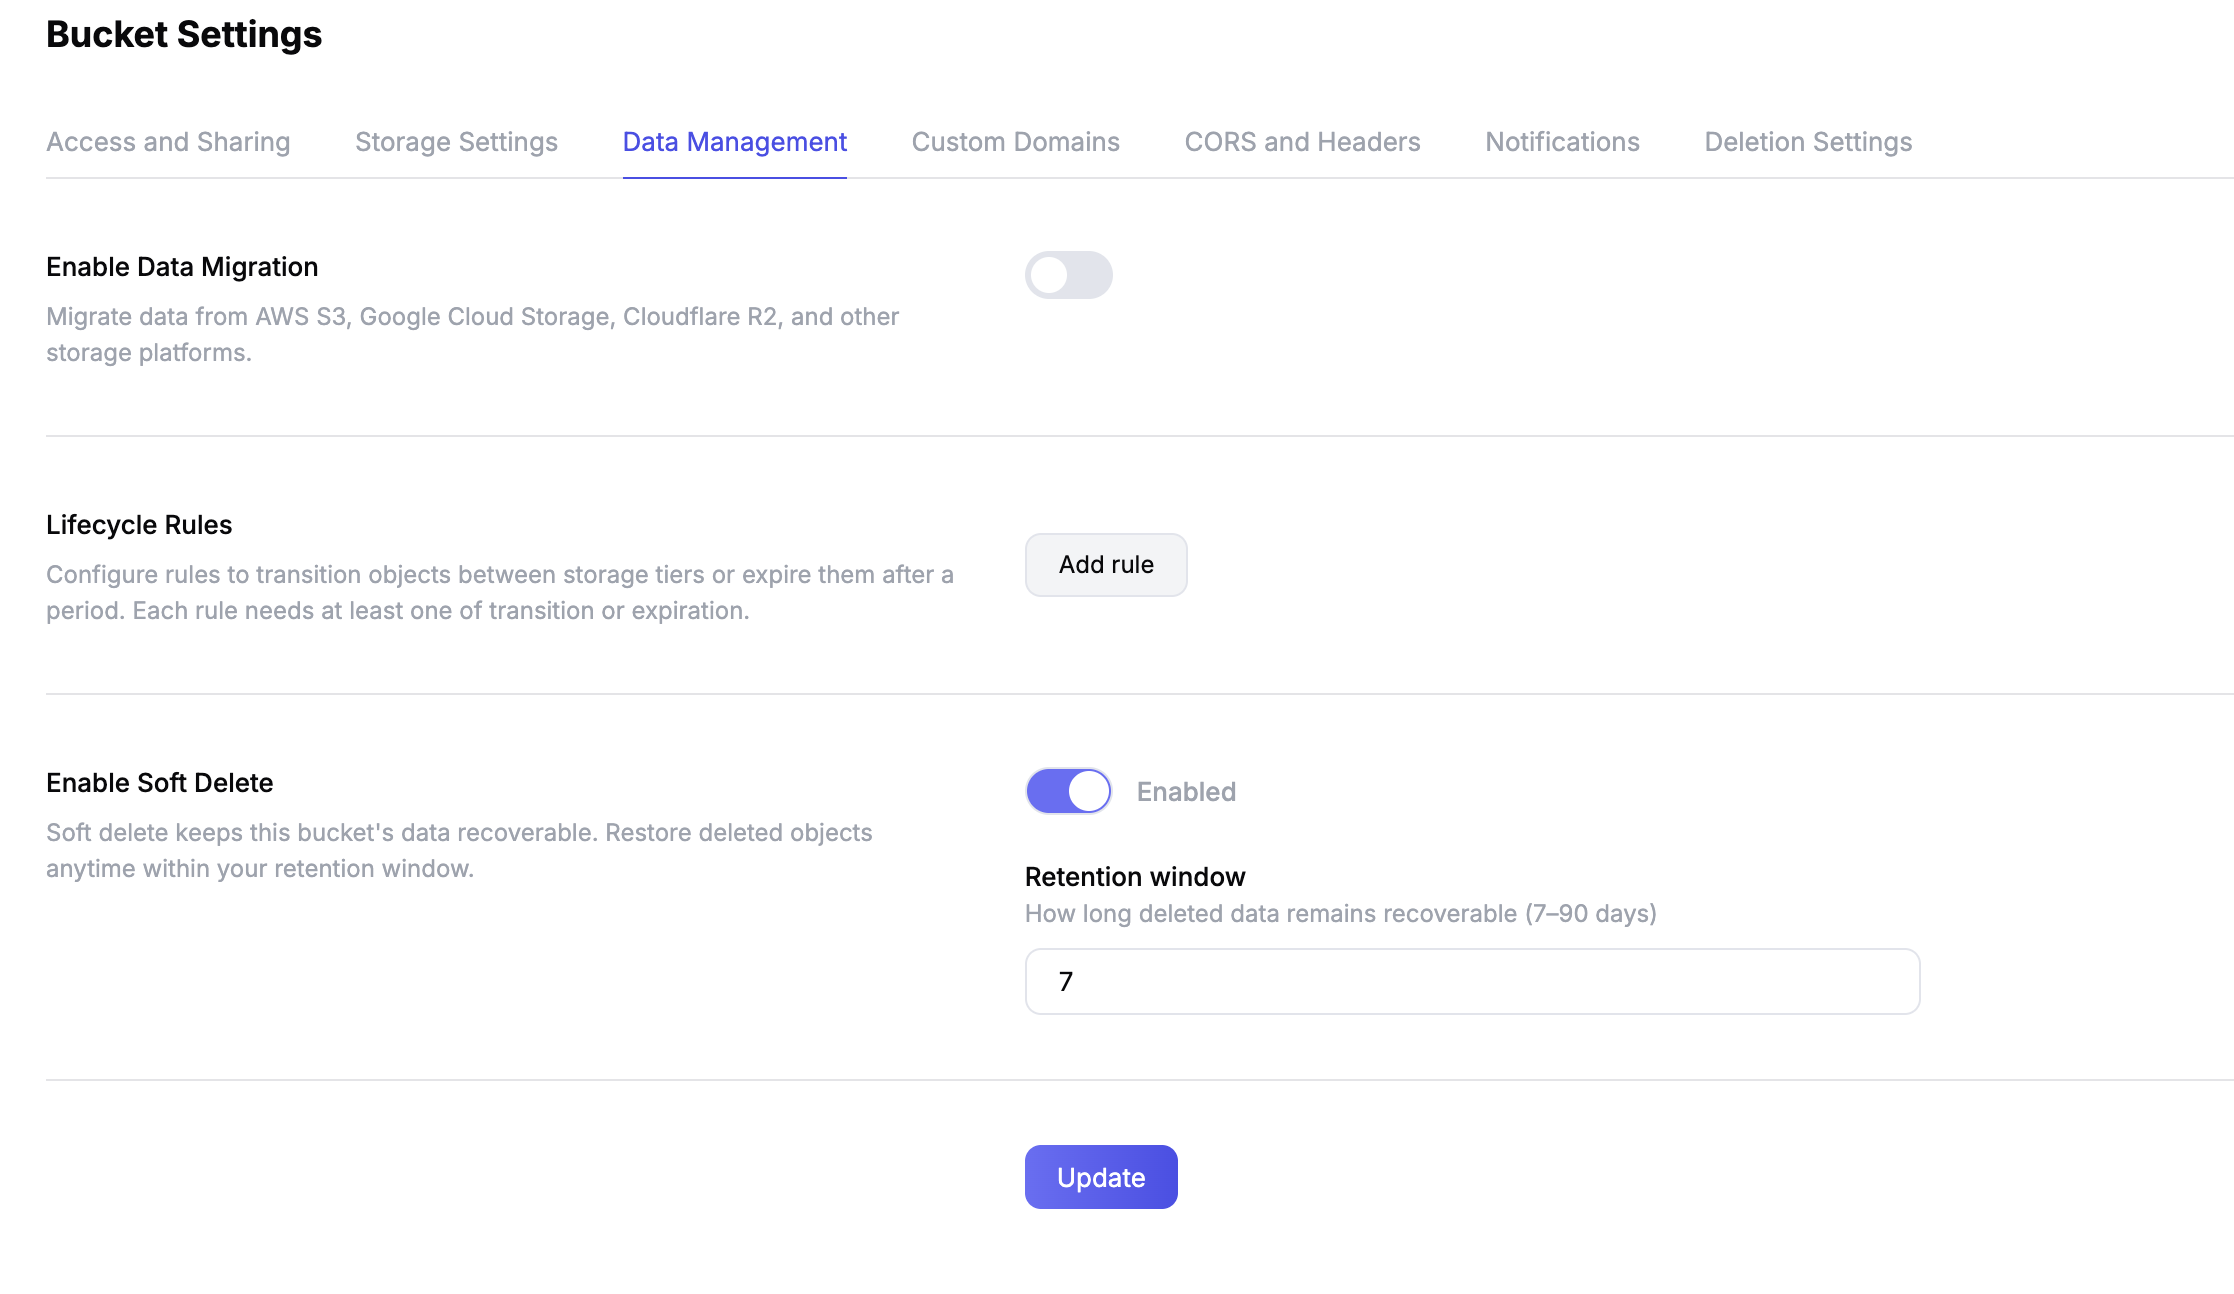
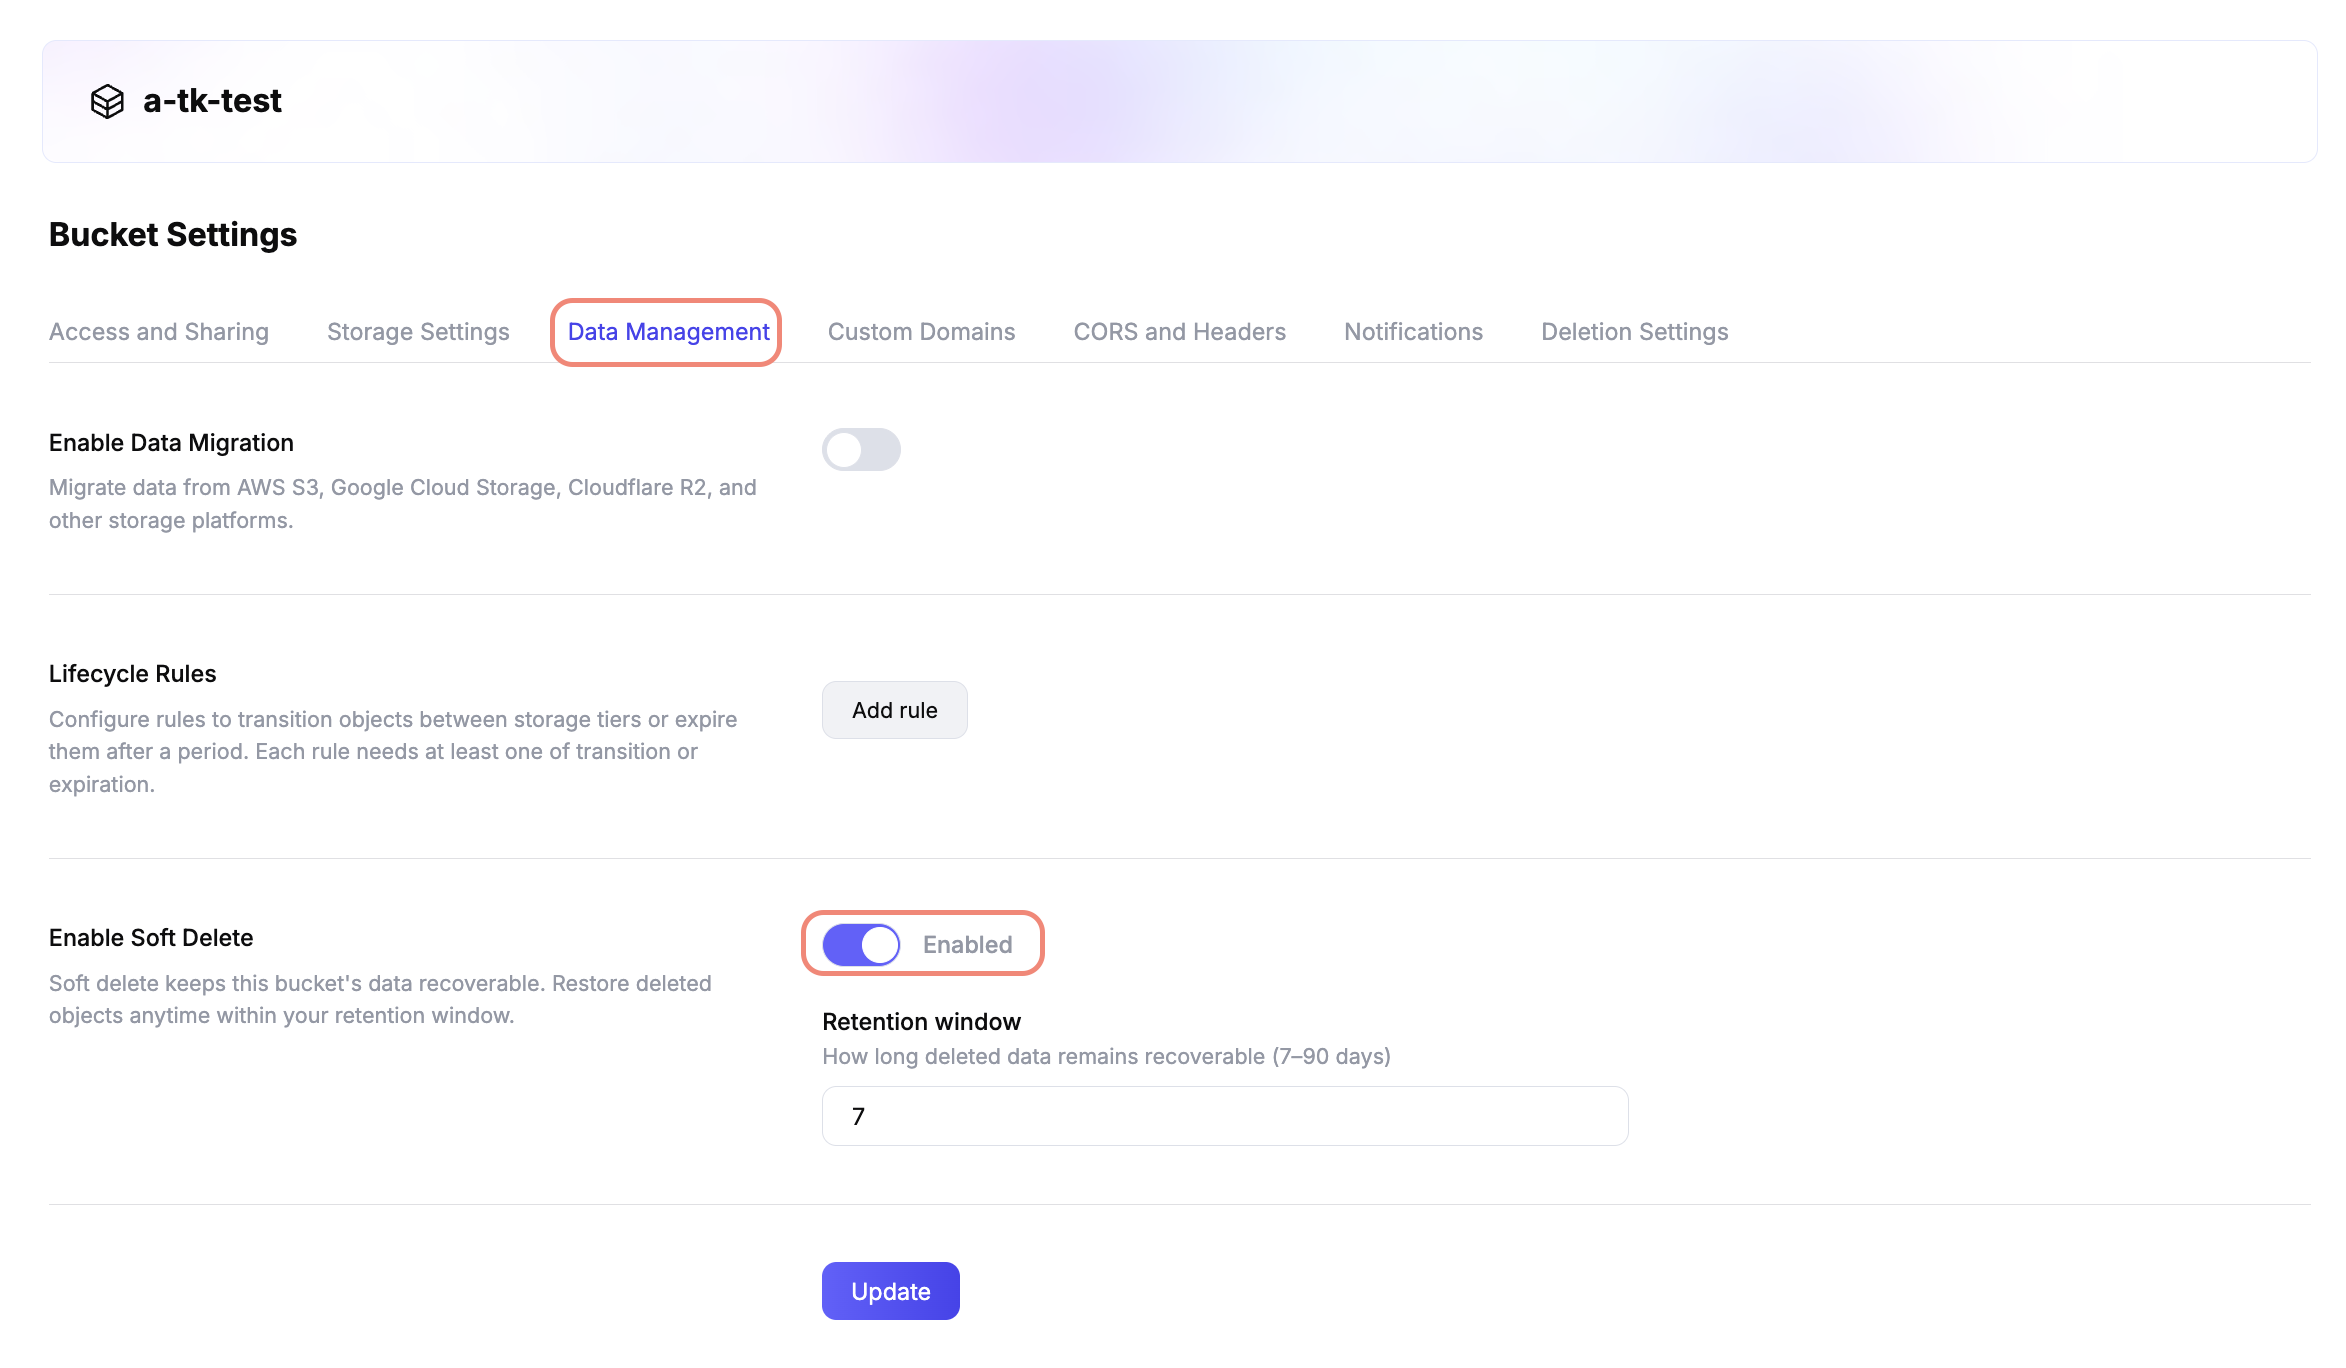
feat: updating imgs and add desp

diff --git a/docs/buckets/soft-delete.md b/docs/buckets/soft-delete.md
@@ -75,13 +75,39 @@ func createBucketWithSoftDelete(ctx context.Context, client *s3.Client, bucketNa
 }
 ```
 
+## Viewing soft delete status on the buckets list
+
+A **Soft Delete** column on the buckets list marks which buckets have soft
+delete enabled, showing **Enabled** or **Disabled** for each row.
+Snapshot-enabled buckets are included in the same list and marked the same way.
+
+![Buckets list with the Deleted buckets tab and Soft Delete column](/img/soft-delete-col-segment.png)
+
+## Deleting a bucket with soft delete enabled
+
+When you delete a bucket that has soft delete enabled, the delete confirmation
+dialog reflects that the action is recoverable instead of permanent. It tells
+you the bucket can be restored from the **Deleted buckets** tab within its
+retention period — and that after that window passes, the deletion is permanent.
+The action button is labeled **Soft Delete** rather than **Delete**, and you
+still confirm by typing the bucket name.
+
+![Delete bucket confirmation dialog for a soft-delete-enabled bucket](/img/soft-delete-bucket-modal.png)
+
+This is the cue that the bucket is moving into the soft-deleted state covered
+below rather than being permanently removed.
+
 ## Restoring a deleted bucket
 
 A bucket deleted while soft delete was enabled is not removed immediately. It
 moves to a soft-deleted state where it is hidden from your normal bucket list
-but stays recoverable until the retention window expires. Soft-deleted buckets
-are listed under the **Deleted buckets** tab on the buckets page in the Tigris
-Dashboard, where each row represents a deleted bucket.
+but stays recoverable until the retention window expires.
+
+The buckets page in the Tigris Dashboard has a segmented control above the list
+with an **All buckets**, **Own by me**, and **Deleted buckets** segment. The
+**Deleted buckets** segment is where every bucket that was deleted while soft
+delete was enabled shows up — each row in this view represents a soft-deleted
+bucket that is still within its retention window.
 
 To restore a bucket, open the row's overflow menu (`...`) and choose
 **Restore**: